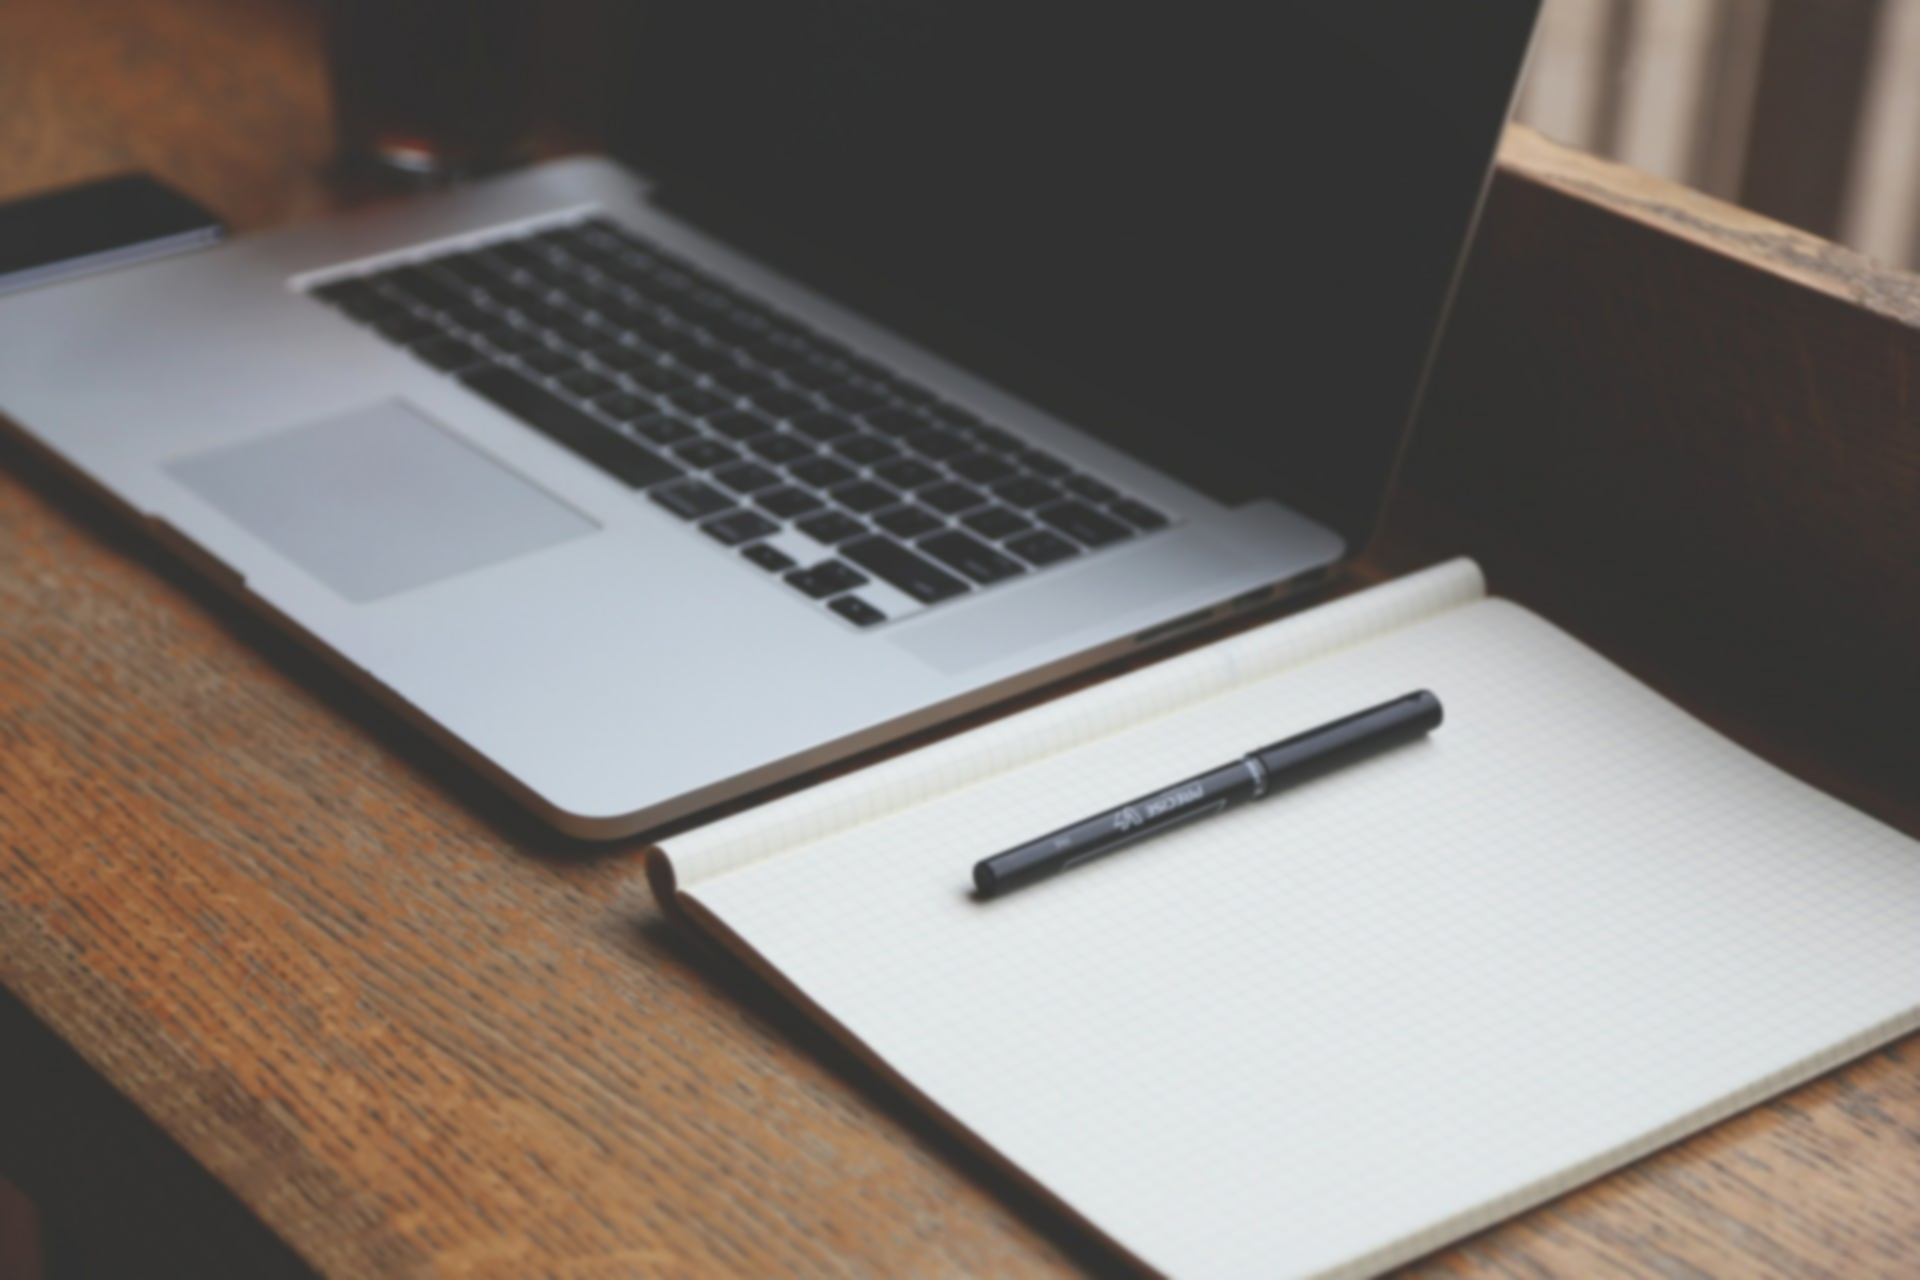
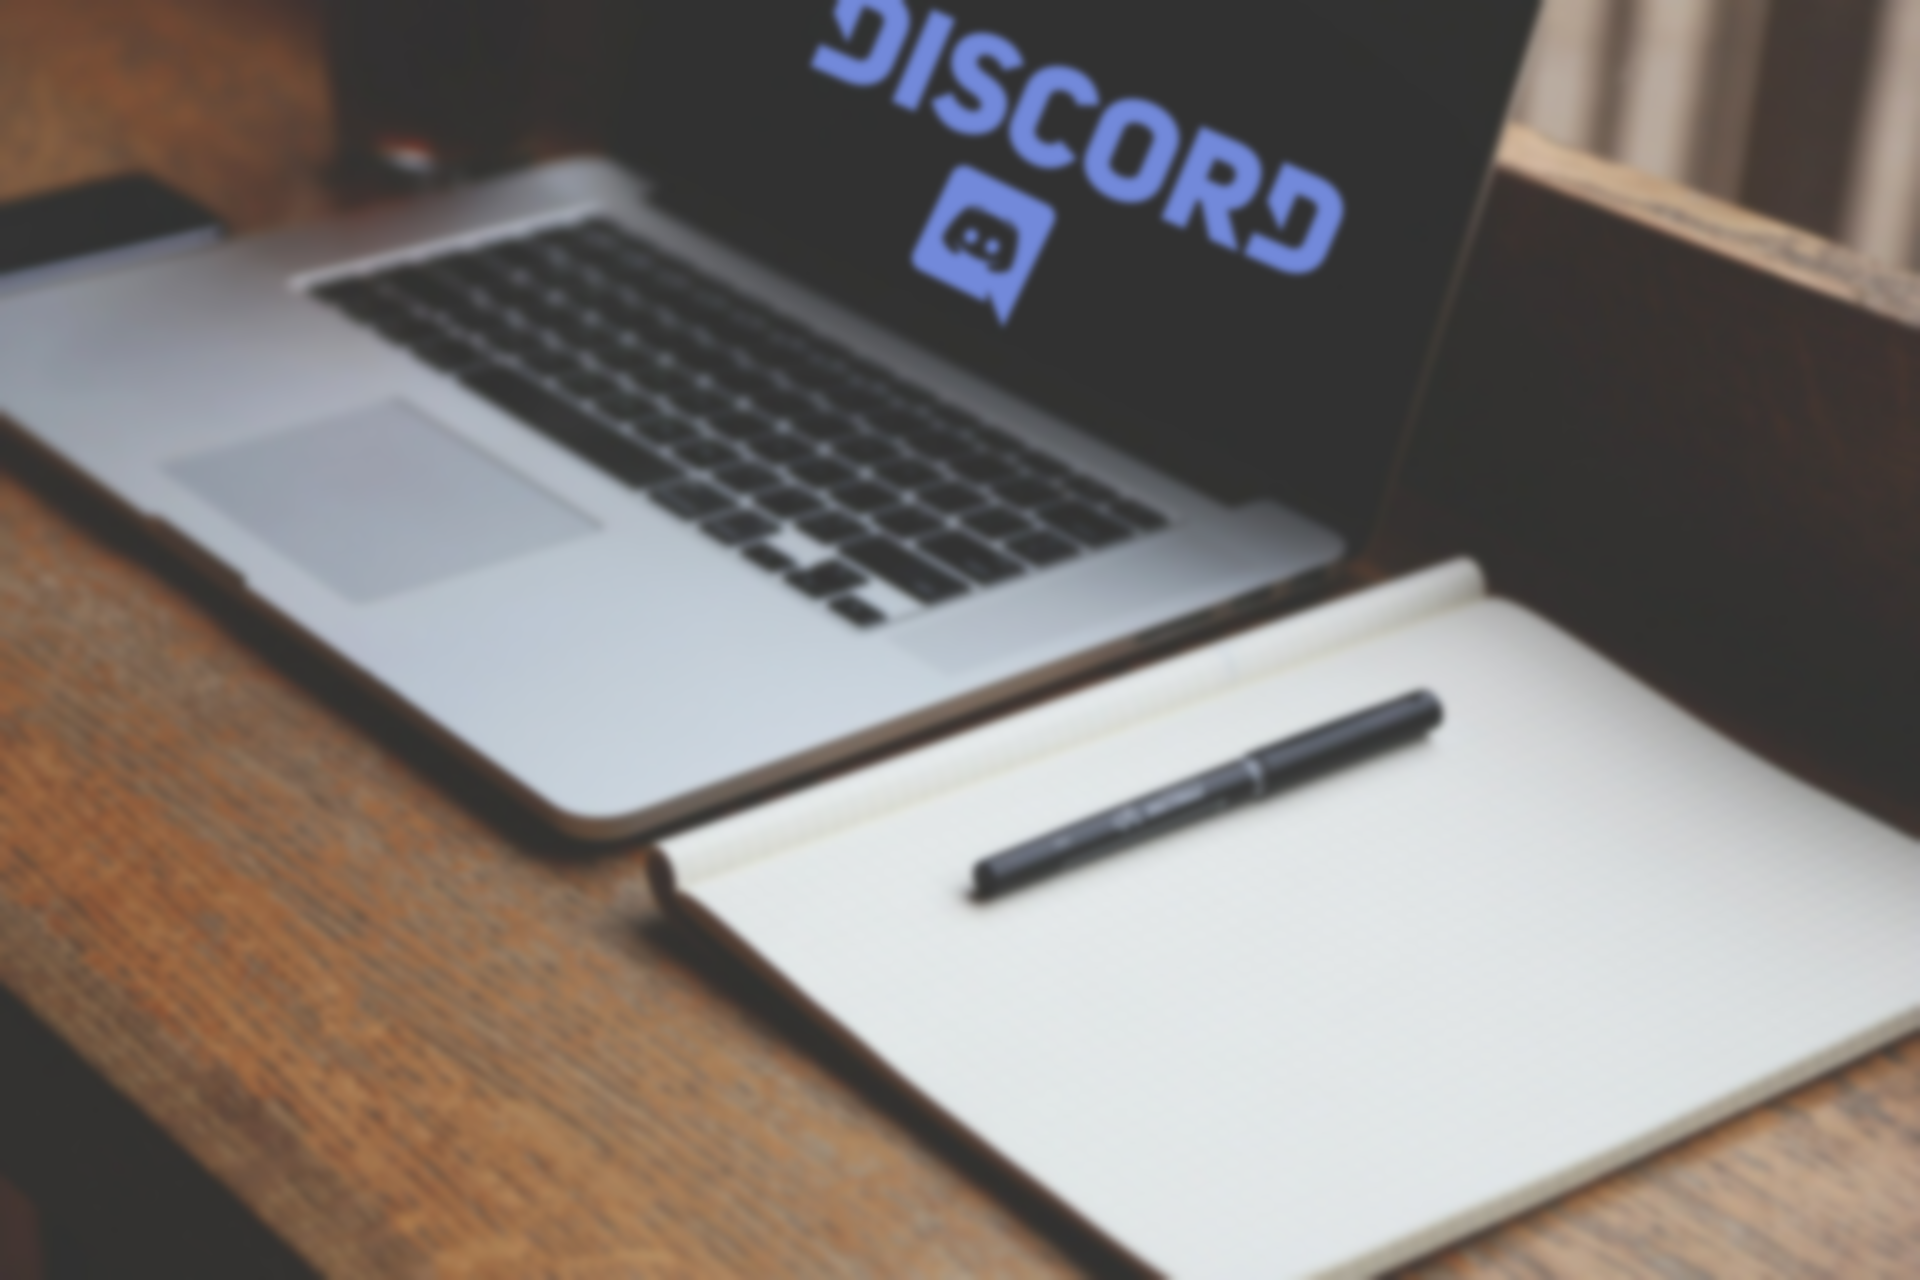
Vie etudiante (pas responsive)

diff --git a/src/components/pages/Vieetudiante/BDE.js b/src/components/pages/Vieetudiante/BDE.js
@@ -1,7 +1,6 @@
 import React from "react";
 
 import bde from "../../../media/vieetudiante/bde.jpg";
-import fond from "../../../media/vieetudiante/fondBDE.jpg";
 
 const BDE = () => {
   return (
@@ -11,8 +10,7 @@ const BDE = () => {
           <h2>Notre BDE</h2>
           <p>
             Le Bureau des Étudiants est là pour créer une cohésion entre les
-            étudiants en organisant des soirées, des animations et en
-            participant à la vente de Sweat-shirt.
+            étudiants en organisant des soirées, des animations, vente de Sweat-shirt...
           </p>
           <div className="imgBDE">
             <img src={bde} alt="logo BDE" className="logoBDE" />

diff --git a/src/styles/components/Vieetudiante/_discord.scss b/src/styles/components/Vieetudiante/_discord.scss
@@ -9,7 +9,7 @@
   font-family: $font-1;
   width: 800px;
   height: 500px;
-  background-image: url('../../../media/vieetudiante/fondDiscord.PNG');
+  background-image: url('../../../media/vieetudiante/fondDiscord.png');
   background-position: center;
   background-repeat: no-repeat;
   background-size: cover;
